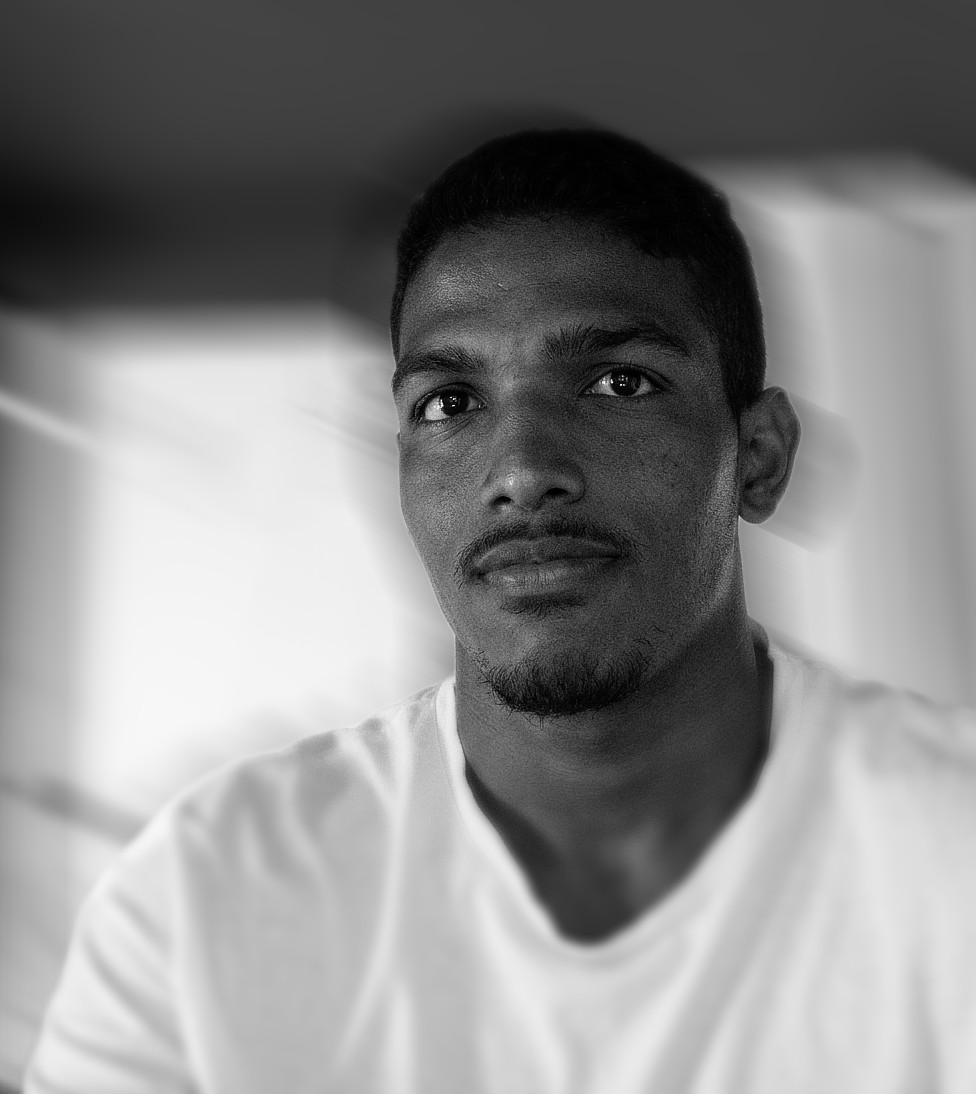
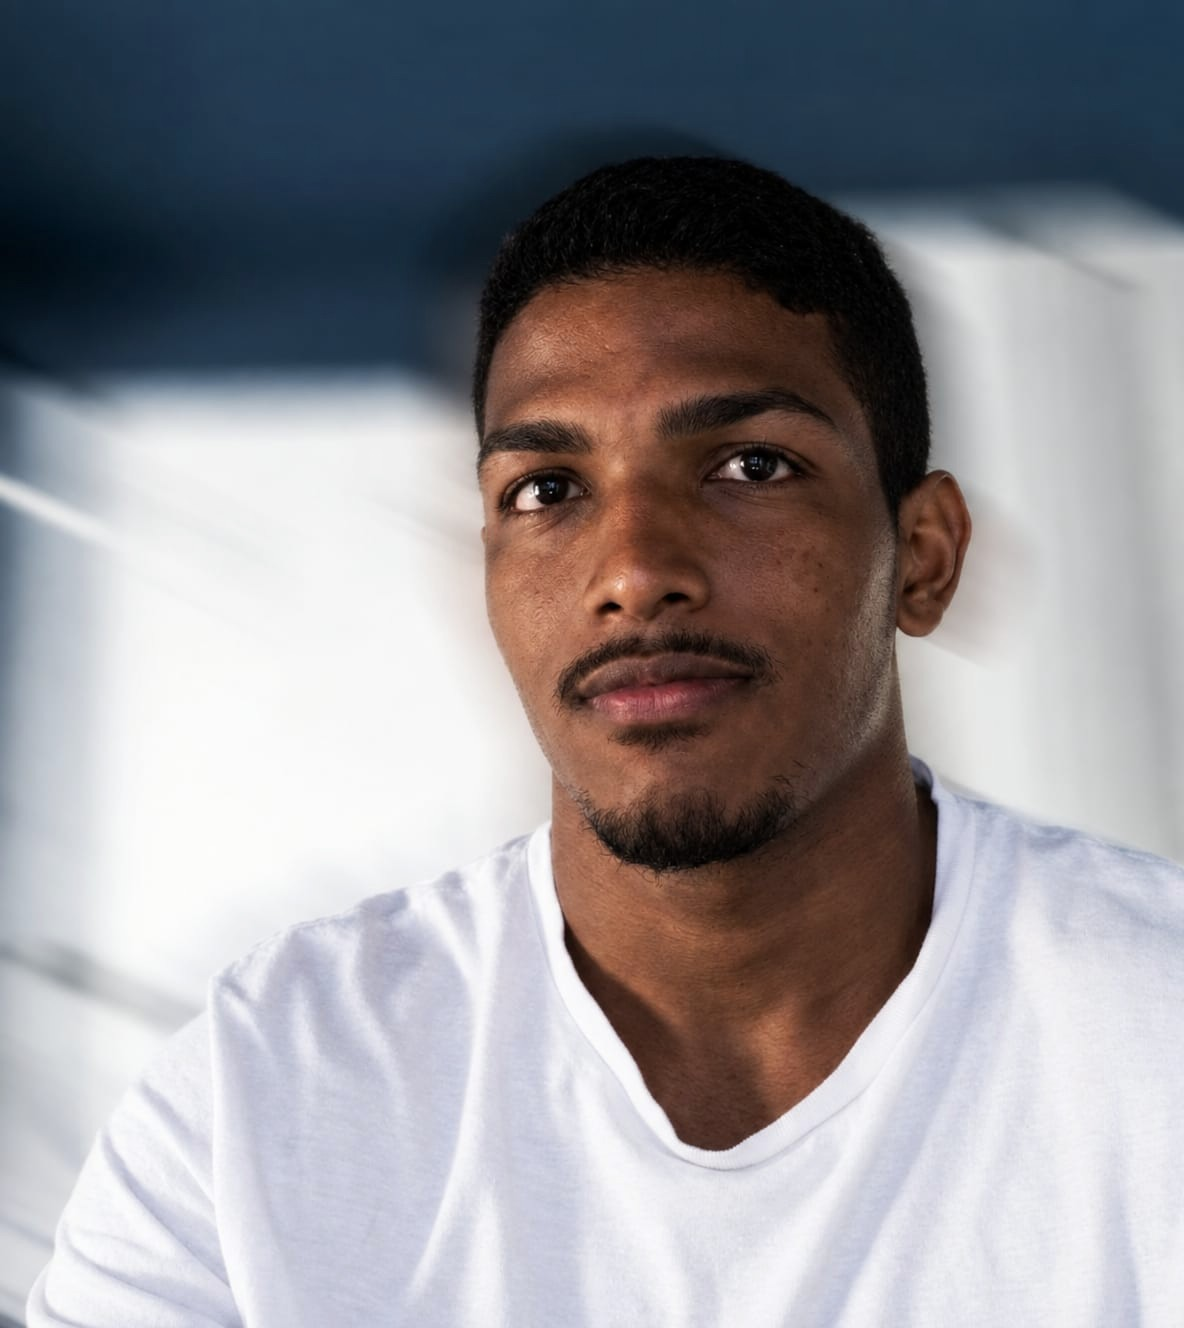
ajustes no header

diff --git a/src/styles.css b/src/styles.css
@@ -88,8 +88,8 @@ a {
   max-width: 650px;
 }
 .portrait {
-  width: 160px;
-  height: 160px;
+  width: 130px;
+  height: 130px;
   border-radius: 30%;
   overflow: hidden;
   border: 4px solid #f0efeb;
